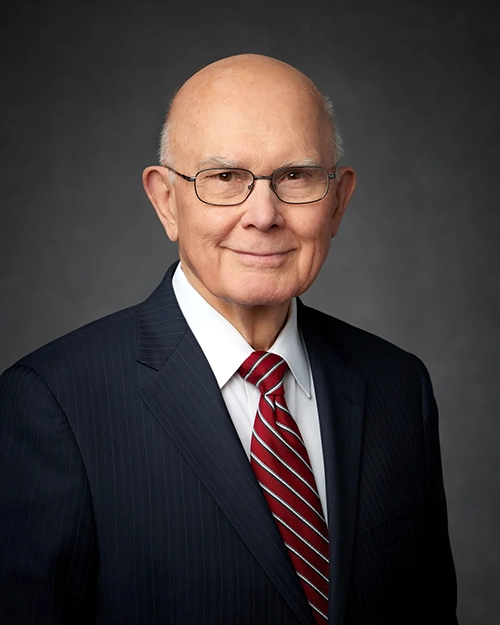
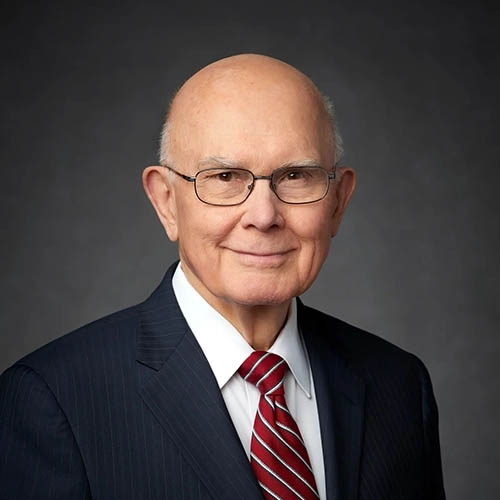
prophet card

diff --git a/ice/prophets_cards/styles/styles.css b/ice/prophets_cards/styles/styles.css
@@ -1,0 +1,49 @@
+body {
+    background-color: #FFECD7;
+    align-items: center;
+    display: flex;
+    justify-content: center;
+    min-height: 100vh;
+}
+
+.card {
+    width: 300px;
+    height: auto;
+    border: 3px solid #004E63;
+    background-color: #008DB1;
+    border-radius: 15px;
+    text-align: center;
+    padding: 0px 10px 10px 10px;
+}
+
+h1 {
+    font-family: Helvetica;
+    color: #fffffe;
+}
+
+#subtitle {
+    font-family: Helvetica;
+    color: #91e4fb;
+    text-decoration: none;
+}
+
+img {
+    width: 200px;
+    height: auto;
+    border: 2px solid #FFFFFf;
+    margin-top: 15px;
+}
+
+#list {
+    color: #FFFFFE;
+    font-family: Helvetica;
+    text-align: left;
+    width: 200px;
+    margin-left: 40px;
+}
+
+#quote {
+    font-family: "nanum brush script", cursive;
+    color: #FFD783;
+    margin: 10px;
+}

diff --git a/ice/prophets_cards/oaks.html b/ice/prophets_cards/oaks.html
@@ -1,0 +1,20 @@
+<!DOCTYPE html>
+<html lang="eng">
+    <head>
+        <link rel="stylesheet" href="
+        styles/styles.css">
+    </head>
+    <body>
+        <div class="card">
+        <h1>Dallin H. Oaks</h1>
+        <a href="https://www.churchofjesuschrist.org" id="subtitle">18th President of the Church of Jesus Christ of Latter-day Saints</a>
+        <img src="images/dallin_oaks.webp" alt="Dallin H. Oaks">
+        <ul id="list">
+            <li>Born: Aug 12, 1932</li>
+            <li>Apostle: Apr 7, 1984</li>
+            <li>Prophet: Oct 14, 2025</li>
+        </ul>
+        <p id="quote">"The gospel of Jesus Christ teaches us that our highest priority is to love God and to love our fellowmen."</p>
+        </div>
+    </body>
+</html>
